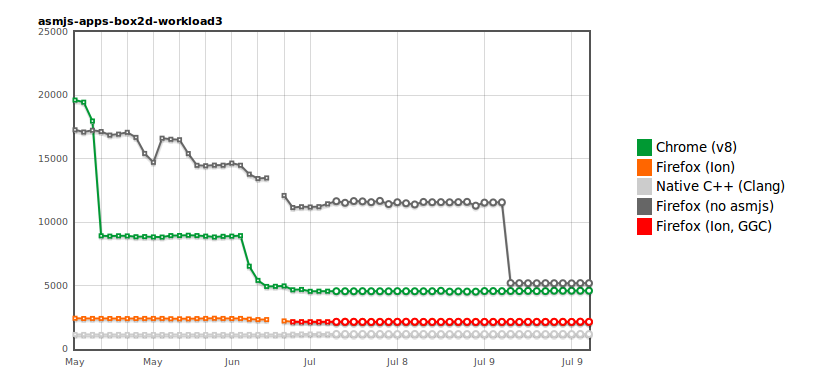
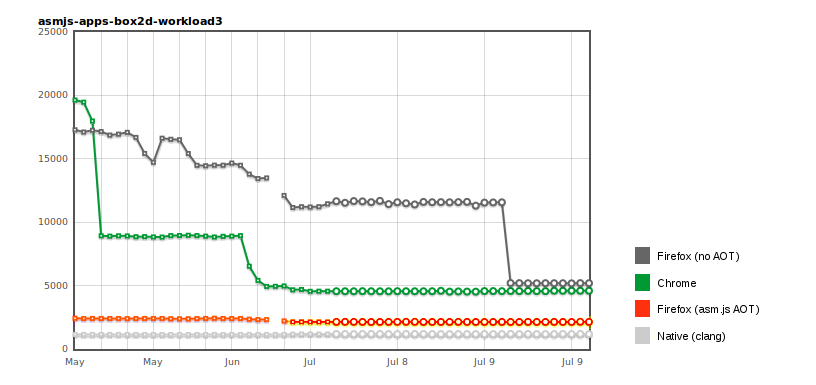
work

Changed region(s): [[0.7659, 0.3429, 0.9804, 0.6857], [0.337, 0.8104, 0.7353, 0.8727], [0.7659, 0.7169, 0.9191, 0.9039]]

diff --git a/sloop.html b/sloop.html
@@ -172,10 +172,17 @@
           <h3><b>Box2D: Progress and AOT</b></h3>
           <a href="asmprogress2.png"><img src="asmprogress2.png"></a>
           <p><small>source: <a href="http://arewefastyet.com/#machine=12&view=breakdown&suite=asmjs-apps">arewefastyet.com</a>; x axis is time, y axis is milliseconds (lower is better)</small></p>
-          <p class="fragment">Red/orange is Ahead Of Time (AOT) compilation (using the asm.js type system)</p>
-          <p class="fragment">Just In Time (JIT) compilers catching up fast</p>
-          <p class="fragment">AOT is not necessary, but makes optimization easier and prevents recompilation overhead</p>
-          <p class="fragment">No point in time where asm.js is "supported" by a browser, asm.js is just a subset of JS that is being optimized like any other</p>
+          <p class="fragment"><b>Ahead Of Time (AOT)</b> compilation is possible using the asm.js type system</p>
+          <p class="fragment">Not necessary, but makes optimization easier</p>
+          <p class="fragment">AOT being <b>possible</b> proves how <strong>optimizable</strong> asm.js is (no type changes)</p>
+        </section>
+
+        <section>
+          <h3><b>Box2D: Progress and AOT</b></h3>
+          <a href="asmprogress2.png"><img src="asmprogress2.png"></a>
+          <p><small>source: <a href="http://arewefastyet.com/#machine=12&view=breakdown&suite=asmjs-apps">arewefastyet.com</a>; x axis is time, y axis is milliseconds (lower is better)</small></p>
+          <p class="fragment">No point in time where asm.js is "supported" by a browser</p>
+          <p class="fragment">asm.js is just a subset of JS that is being optimized like JS always is</p>
         </section>
 
         <section>
